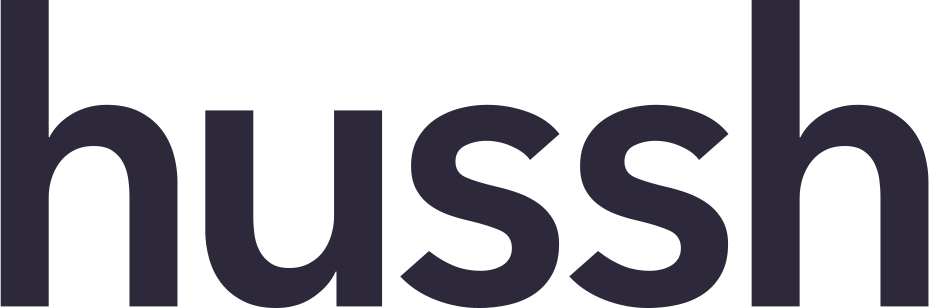
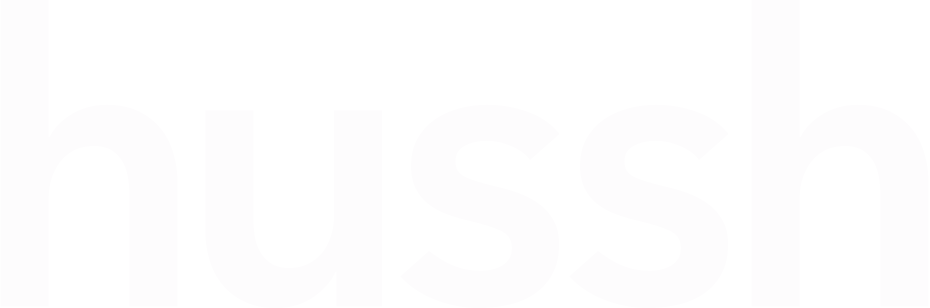
Various UI things, background, headers

diff --git a/webApp/public/myApp/src/pages/home/home.html b/webApp/public/myApp/src/pages/home/home.html
@@ -1,14 +1,15 @@
 
 <ion-header > 
-  <ion-navbar color='navbarColor' >
+  <ion-navbar color='navbarColor'>
     <img src="myApp/src/assets/wordmark/wordmark.png" alt="hussh wordmark" id="wordmark">
     <button ion-button menuToggle="right" end>
-      <ion-icon style="size: 30px" name="contact"></ion-icon>
+      <ion-icon style="size: 30px; color: white;" name="contact"></ion-icon>
     </button>
   </ion-navbar>
 </ion-header>
 
-<ion-content style="background-color:#eee">
+<ion-content style="background-color: #eee !important;
+  background-image: url(myApp/src/assets/background/bg.png) !important;">
    
 <div class="container">
   <ion-card>

diff --git a/webApp/public/myApp/src/pages/home/home.scss b/webApp/public/myApp/src/pages/home/home.scss
@@ -2,6 +2,18 @@
   background-color: blue;
 }
 
+login .toolbar-background-md, settings .toolbar-background, signup .toolbar-background {
+  background-color: #4FC3F7 !important;
+}
+
+login .toolbar-title, settings .toolbar-title, signup .toolbar-title {
+  color: white !important;
+}
+
+page-home .toolbar-background {
+  background-color: #4FC3F7 !important;
+}
+
 ion-card {
   width: fit-content !important;
   padding: 10px;
@@ -60,6 +72,8 @@ body {
   display: inherit;
   width: initial;
   margin: 10px auto;
+  position: relative;
+  left: 17px;
 }
 
 @media only screen and (max-width: 700px) {

diff --git a/webApp/public/myApp/src/pages/login/login.component.html b/webApp/public/myApp/src/pages/login/login.component.html
@@ -1,11 +1,11 @@
 <ion-header>
-  <ion-navbar>
+  <ion-navbar id="login-nav">
     <button ion-button menuToggle="left" start>
       <ion-icon name="menu"></ion-icon>
     </button>
-    <ion-title style="font-family: 'Roboto'">Login</ion-title>
+    <ion-title style="font-family: 'Roboto'; color: white;">Login</ion-title>
     <button ion-button menuToggle="right" end>
-      <ion-icon style="size: 30px" name="contact"></ion-icon>
+      <ion-icon style="size: 30px" name="contact" style="color: white;"></ion-icon>
     </button>
   </ion-navbar>
 </ion-header>

diff --git a/webApp/public/myApp/src/pages/settings/settings.component.html b/webApp/public/myApp/src/pages/settings/settings.component.html
@@ -1,11 +1,11 @@
 <ion-header>
-  <ion-navbar>
+  <ion-navbar id="settings-nav">
     <button ion-button menuToggle="left" start>
       <ion-icon name="menu"></ion-icon>
     </button>
-    <ion-title>Settings</ion-title>
+    <ion-title style="color: white;">Settings</ion-title>
     <button ion-button menuToggle="right" end>
-      <ion-icon name="contact"></ion-icon>
+      <ion-icon name="contact" style="color: white;"></ion-icon>
     </button>
   </ion-navbar>
 </ion-header>

diff --git a/webApp/public/myApp/src/pages/infanthealth/infanthealth.html b/webApp/public/myApp/src/pages/infanthealth/infanthealth.html
@@ -16,7 +16,7 @@
         <div id="Videos">
            <ion-card>
                <ion-card-header>
-                    <h1 style="font-size: 25px;" text-wrap>Learn the essentials of baby care from trained medical professionals</h1>
+                    <h1 style="font-size: 18px;" text-wrap>Learn the essentials of baby care from trained medical professionals</h1>
                </ion-card-header>
            </ion-card>  
             <div id="topic 1">

diff --git a/webApp/public/myApp/www/index.html b/webApp/public/myApp/www/index.html
@@ -1,9 +1,6 @@
 <!DOCTYPE html>
 <html lang="en" dir="ltr">
 <head>
-  <script data-ionic="inject">
-    (function(w){var i=w.Ionic=w.Ionic||{};i.version='3.6.0';i.angular='4.1.3';i.staticDir='build/';})(window);
-  </script>
   <meta charset="UTF-8">
   <title>Behbes</title>
   <meta name="viewport" content="width=device-width, initial-scale=1.0, minimum-scale=1.0, maximum-scale=1.0, user-scalable=no">

diff --git a/webApp/public/myApp/src/pages/form/form.html b/webApp/public/myApp/src/pages/form/form.html
@@ -10,7 +10,8 @@
   </ion-navbar>
 </ion-header>
 
-<ion-content style="background-color:#eee">
+<ion-content style="background-color: #eee !important;
+  background-image: url(myApp/src/assets/background/bg.png) !important;">
   <div id="form">
     <ion-card>
       <div id="form-header">

diff --git a/webApp/public/myApp/src/pages/map/map.html b/webApp/public/myApp/src/pages/map/map.html
@@ -10,7 +10,8 @@
     </ion-navbar>
 
 </ion-header>
-<ion-content padding>
+<ion-content padding style="background-color: #eee !important;
+  background-image: url(myApp/src/assets/background/bg.png) !important;">
     <div #map id="map">
       <div class="loader"></div>
     </div>

diff --git a/webApp/public/myApp/src/pages/form/form.scss b/webApp/public/myApp/src/pages/form/form.scss
@@ -46,6 +46,15 @@ label {
   .items {
     display: block !important;
   }
+  #form button {
+    margin: inherit !important;
+  }
+}
+
+#form button {
+  width: 60%;
+  display: block;
+  margin: 0 auto !important;
 }
 
 #warning {

diff --git a/webApp/public/myApp/src/pages/settings/settings.component.css b/webApp/public/myApp/src/pages/settings/settings.component.css
@@ -10,3 +10,7 @@
         margin-left: 14px;
         width: 98%;
 }
+
+#settings-nav .toolbar-background {
+  background-color: #4FC3F7 !important;
+}
